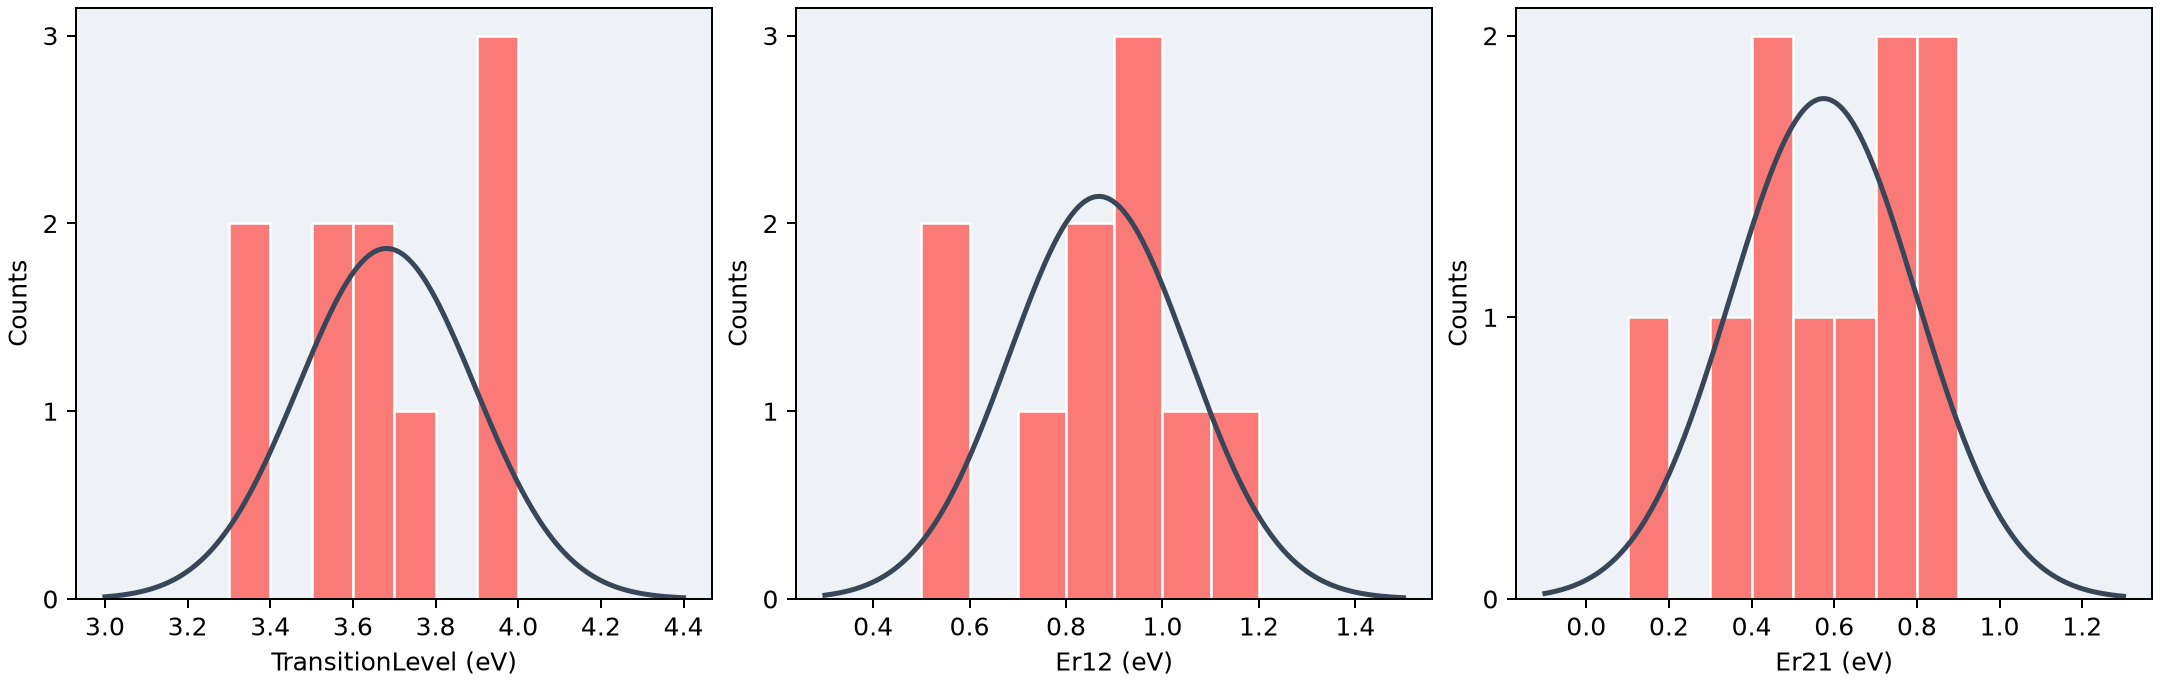
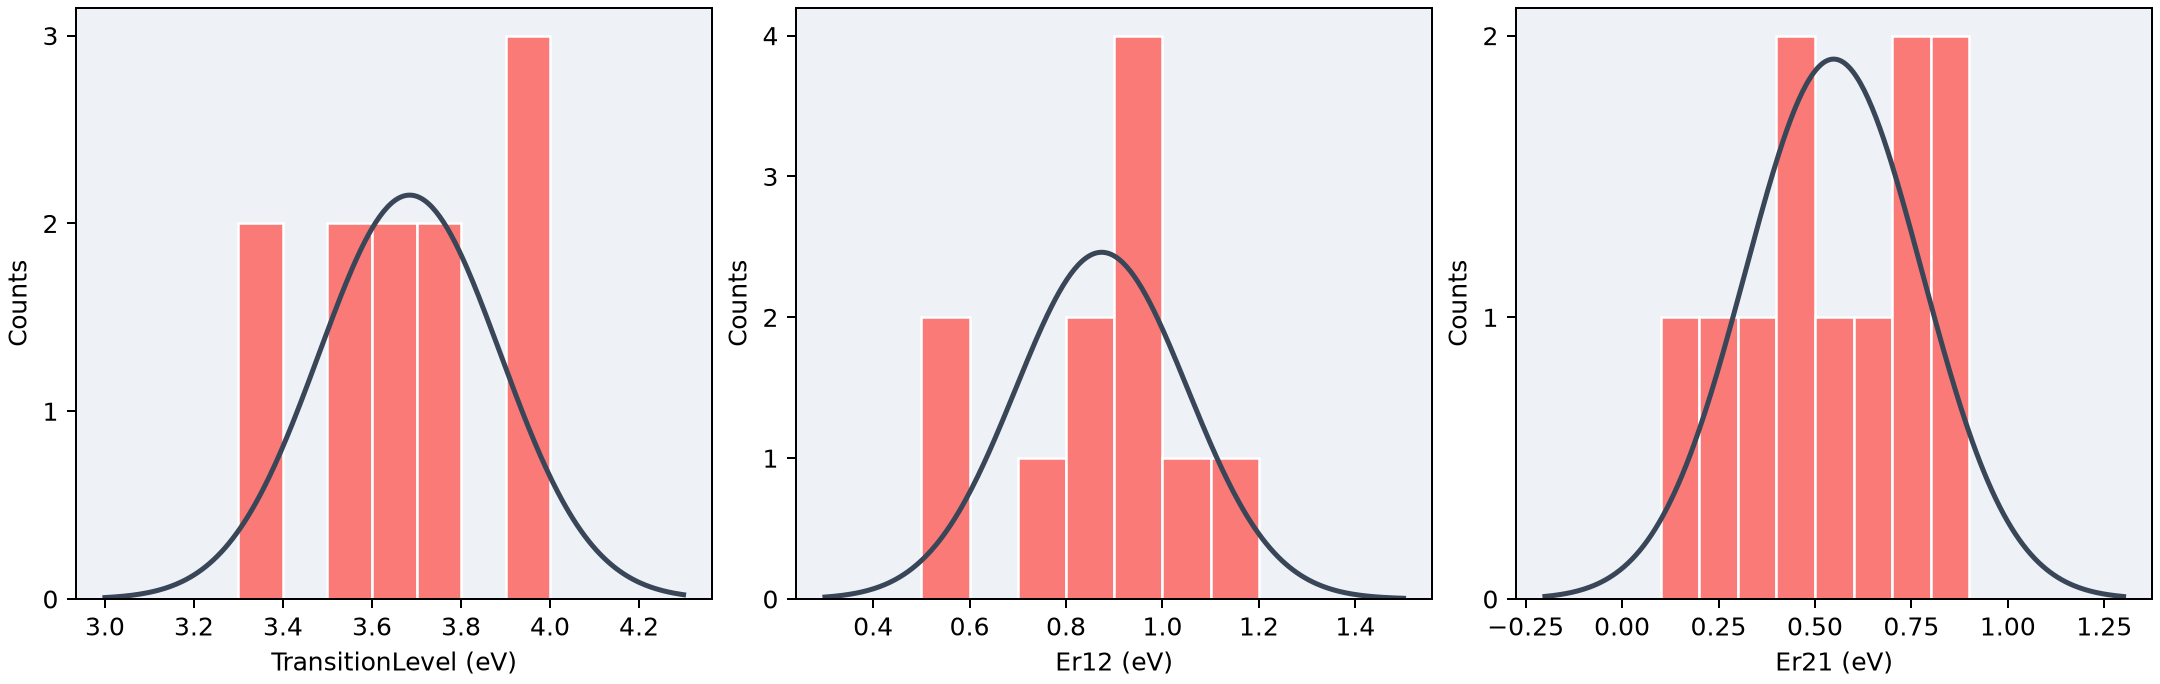
Update energy statistics reports

diff --git a/VO_HfO2_0_minus1/README.md b/VO_HfO2_0_minus1/README.md
@@ -1,15 +1,15 @@
 # VO@HfO2 (0/-1)
 
-统计目录中的 10 条记录。001 来自原始 DFT 计算，002–010 为随机生成的测试数据。
+统计目录中的 11 条记录。001 来自原始 DFT 计算，002–010 为随机生成的测试数据。
 统计直接使用 JSON 中的三个能量字段。转变能级相对于 PBE VBM。方差为总体方差，分母为记录数 N。
 
 ## 汇总统计
 
 | 参数 | 平均值（eV） | 总体方差（eV²） |
 |---|---:|---:|
-| TransitionLevel | 3.681476 | 0.045676 |
-| Er12 | 0.868393 | 0.034624 |
-| Er21 | 0.574174 | 0.050420 |
+| TransitionLevel | 3.684708 | 0.041628 |
+| Er12 | 0.873853 | 0.031774 |
+| Er21 | 0.548530 | 0.052413 |
 
 ## 能量分布
 
@@ -31,3 +31,4 @@
 | [008](008/VO_HfO2_0_minus1.json) | 3.961901 | 0.948682 | 0.432193 |
 | [009](009/VO_HfO2_0_minus1.json) | 3.389419 | 0.958629 | 0.871509 |
 | [010](010/VO_HfO2_0_minus1.json) | 3.738891 | 1.107193 | 0.603566 |
+| [011](011/VO_HfO2_0_minus1.json) | 3.717030 | 0.928453 | 0.292082 |

diff --git a/VO_HfO2_plus1_0/README.md b/VO_HfO2_plus1_0/README.md
@@ -7,7 +7,7 @@
 
 | 参数 | 平均值（eV） | 总体方差（eV²） |
 |---|---:|---:|
-| TransitionLevel | 3.331389 | 0.086014 |
+| TransitionLevel | 3.341389 | 0.078951 |
 | Er12 | 1.523572 | 0.063066 |
 | Er21 | 0.358007 | 0.027225 |
 
@@ -22,7 +22,7 @@
 | 编号 | TransitionLevel | Er12 | Er21 |
 |---|---:|---:|---:|
 | [001](001/VO_HfO2_plus1_0.json) | 3.389506 | 1.419785 | 0.290108 |
-| [002](002/VO_HfO2_plus1_0.json) | 2.933235 | 1.765434 | 0.071777 |
+| [002](002/VO_HfO2_plus1_0.json) | 3.033235 | 1.765434 | 0.071777 |
 | [003](003/VO_HfO2_plus1_0.json) | 3.541430 | 1.489315 | 0.285720 |
 | [004](004/VO_HfO2_plus1_0.json) | 3.840912 | 1.822614 | 0.430414 |
 | [005](005/VO_HfO2_plus1_0.json) | 3.231017 | 1.149751 | 0.667742 |
